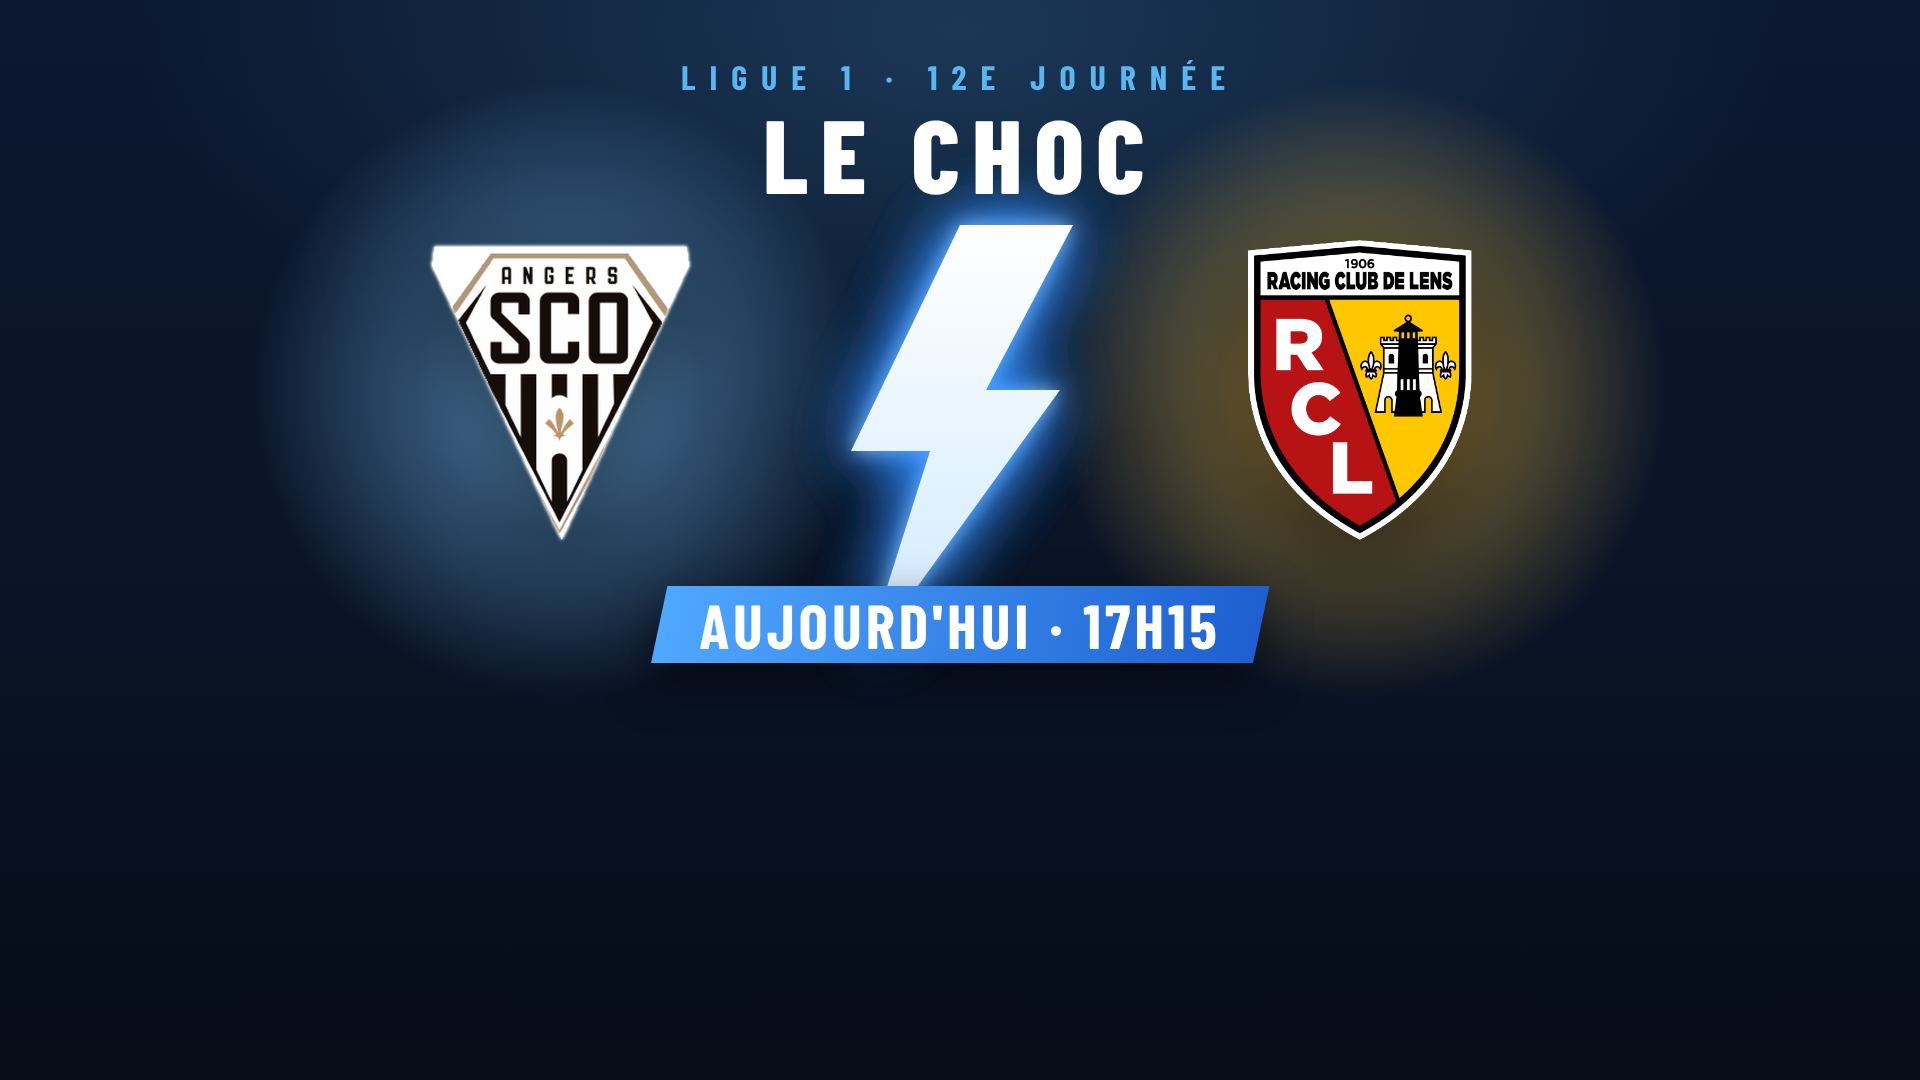
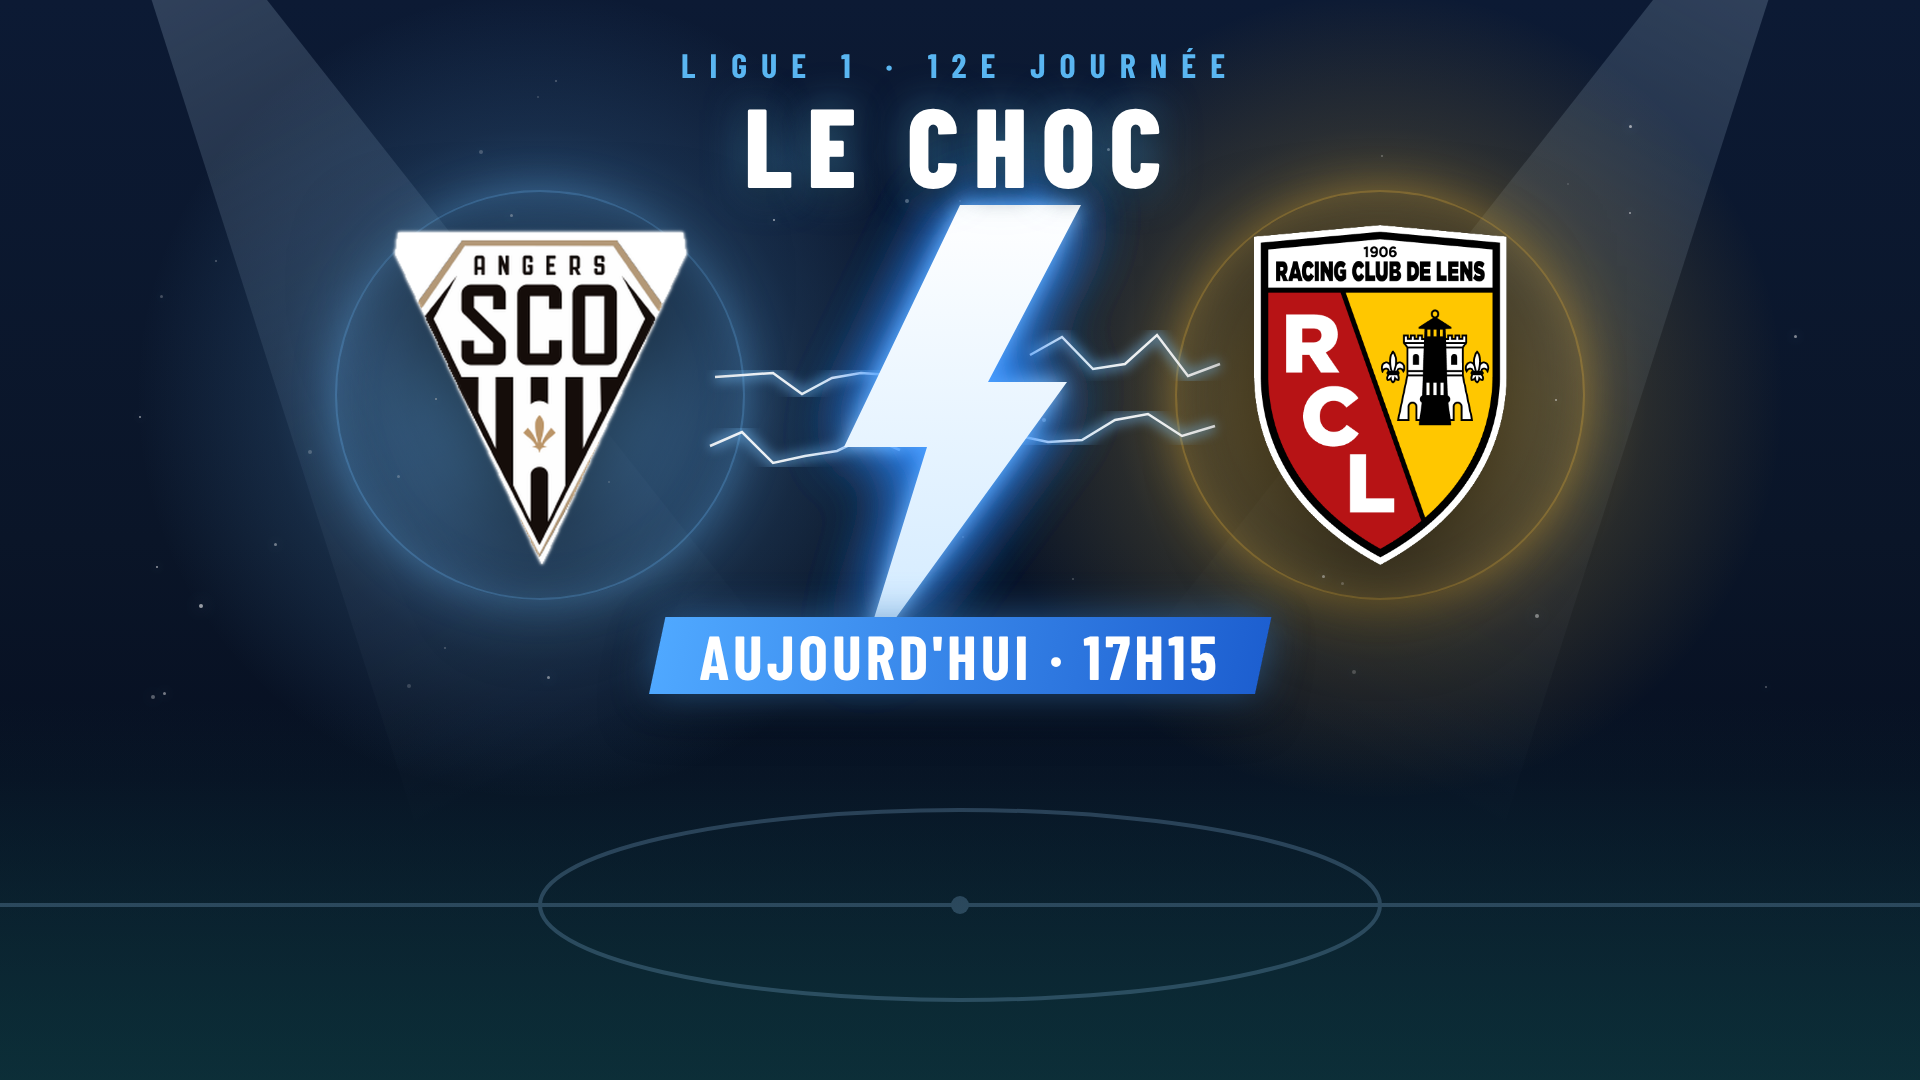
Couverture SCO-Lens éclair v2 : projecteurs, terrain, arcs électriques
Claude-Session: https://claude.ai/code/session_01ShcrTswhZu9rDc4mz55fwo

diff --git a/outils/choc.py b/outils/choc.py
@@ -241,31 +241,58 @@ def eclair(cx, y0, y1):
 
 
 def page_nuit(f):
-    """Couverture sobre : bleu nuit uni, halo derrière chaque logo, VS typographique sans cadre, horaire en étiquette bleue.
-    Tout le contenu au-dessus de 650 px (le titre du site recouvre le bas)."""
+    """Couverture bleu nuit : projecteurs, terrain en perspective, halos derrière les logos, grand éclair (option « eclair »)
+    avec arcs électriques vers les deux logos. Contenu utile au-dessus de 650 px (le titre du site recouvre le bas)."""
+    import random
+    random.seed(11)
     W, H = 1920, 1080
-    L = 300; cy = 390; cx = W // 2; dx = 400
-    def halo(x, couleur):
-        return (f'<div style="position:absolute;left:{x-340}px;top:{cy-340}px;width:680px;height:680px;border-radius:50%;'
-                f'background:radial-gradient(circle,{couleur} 0%,{couleur.replace("0.9","0.35")} 30%,rgba(0,0,0,0) 64%)"></div>')
+    L = 340; cy = 395; cx = W // 2; dx = 420
+    def halo(x, c):
+        return (f'<div style="position:absolute;left:{x-420}px;top:{cy-420}px;width:840px;height:840px;border-radius:50%;'
+                f'background:radial-gradient(circle,rgba({c},0.75) 0%,rgba({c},0.38) 22%,rgba({c},0.12) 45%,rgba({c},0) 68%)"></div>'
+                f'<div style="position:absolute;left:{x-205}px;top:{cy-205}px;width:410px;height:410px;border-radius:50%;border:2px solid rgba({c},0.35);box-shadow:0 0 40px rgba({c},0.35),inset 0 0 40px rgba({c},0.25)"></div>')
     def logo(nom, x):
         net = 'drop-shadow(0 0 1.5px #FFF) drop-shadow(0 0 1.5px #FFF) ' if nom == 'angers-sco' else ''
         return f'<img src="file://{ICI}/logos/{nom}.png" style="position:absolute;left:{x-L//2}px;top:{cy-L//2}px;width:{L}px;height:{L}px;object-fit:contain;filter:{net}drop-shadow(0 30px 50px rgba(0,0,0,0.65))">'
+    def arc(x0, x1, y):
+        pts = [(x0, y)]; n = 6
+        for i in range(1, n):
+            pts.append((x0 + (x1 - x0) * i / n, y + random.uniform(-22, 22)))
+        pts.append((x1, y + random.uniform(-10, 10)))
+        q = ' '.join(f'{a:.0f},{b:.0f}' for a, b in pts)
+        return (f'<polyline points="{q}" fill="none" stroke="#7CC4FF" stroke-width="10" opacity="0.5" filter="url(#ga)"/>'
+                f'<polyline points="{q}" fill="none" stroke="#FFFFFF" stroke-width="2.5" opacity="0.9"/>')
+    arcs = ''
+    if f.get('eclair'):
+        arcs = ('<svg width="1920" height="1080" style="position:absolute;left:0;top:0"><defs><filter id="ga"><feGaussianBlur stdDeviation="6"/></filter></defs>'
+                + arc(cx - 70, cx - dx + 175, cy - 20) + arc(cx - 60, cx - dx + 170, cy + 55)
+                + arc(cx + 70, cx + dx - 160, cy - 40) + arc(cx + 55, cx + dx - 165, cy + 40) + '</svg>')
+    poussiere = ''.join(f'<div style="position:absolute;left:{random.randint(120,1800)}px;top:{random.randint(80,700)}px;width:{r}px;height:{r}px;border-radius:50%;background:#FFFFFF;opacity:{random.uniform(0.15,0.6):.2f};box-shadow:0 0 {r*4}px #9FD3FF"></div>' for r in [random.choice([2, 2, 3, 4]) for _ in range(45)])
+    faisceau = lambda x, rot: (f'<div style="position:absolute;left:{x}px;top:-120px;width:520px;height:1300px;transform-origin:50% 0;transform:rotate({rot}deg);'
+                               f'background:linear-gradient(180deg,rgba(200,230,255,0.22) 0%,rgba(200,230,255,0.06) 45%,rgba(200,230,255,0) 75%);clip-path:polygon(45% 0,55% 0,100% 100%,0 100%);filter:blur(6px)"></div>')
+    terrain = ('<svg width="1920" height="1080" style="position:absolute;left:0;top:0;opacity:0.22">'
+               '<ellipse cx="960" cy="905" rx="420" ry="95" fill="none" stroke="#9FD3FF" stroke-width="4"/>'
+               '<line x1="0" y1="905" x2="1920" y2="905" stroke="#9FD3FF" stroke-width="4"/>'
+               '<circle cx="960" cy="905" r="9" fill="#9FD3FF"/></svg>')
     return f'''<html><head><meta charset="utf-8"><style>{polices()}*{{margin:0;padding:0;box-sizing:border-box}}</style></head>
 <body style="width:{W}px;height:{H}px;overflow:hidden">
-<div style="position:relative;width:{W}px;height:{H}px;overflow:hidden;color:#FFFFFF;font-family:Barlow;background:linear-gradient(180deg,#0B1830 0%,#0A1426 55%,#060C18 100%)">
-  <div style="position:absolute;left:{cx-900}px;top:-420px;width:1800px;height:900px;border-radius:50%;background:radial-gradient(ellipse,rgba(90,182,241,0.20) 0%,rgba(90,182,241,0) 65%)"></div>
-  {halo(cx-dx, 'rgba(120,195,255,0.9)')}
-  {halo(cx+dx, 'rgba(255,200,70,0.9)')}
-  {eclair(cx, 225, 660) if f.get('eclair') else ''}
+<div style="position:relative;width:{W}px;height:{H}px;overflow:hidden;color:#FFFFFF;font-family:Barlow;background:linear-gradient(180deg,#0C1A34 0%,#0A1528 50%,#071022 72%,#0A1E2E 100%)">
+  {faisceau(-120, -28)}{faisceau(1520, 28)}
+  <div style="position:absolute;left:0;right:0;top:700px;height:380px;background:linear-gradient(180deg,rgba(10,40,50,0) 0%,rgba(14,60,64,0.55) 100%)"></div>
+  {terrain}
+  {halo(cx-dx, '110,190,255')}
+  {halo(cx+dx, '255,196,60')}
+  {poussiere}
+  {arcs}
+  {eclair(cx, 205, 670) if f.get('eclair') else ''}
   {logo(f['dom']['logo'], cx-dx)}
   {logo(f['ext']['logo'], cx+dx)}
-  <div style="display:{'none' if f.get('eclair') else 'block'};position:absolute;left:0;right:0;top:{cy-80}px;text-align:center;font-family:'Barlow Condensed';font-weight:800;font-style:italic;font-size:150px;line-height:1;letter-spacing:2px;background:linear-gradient(180deg,#FFFFFF 0%,#9FD3FF 100%);-webkit-background-clip:text;color:transparent;filter:drop-shadow(0 10px 30px rgba(0,0,0,0.6))">VS</div>
-  <div style="position:absolute;left:0;right:0;top:56px;text-align:center">
+  <div style="display:{'none' if f.get('eclair') else 'block'};position:absolute;left:0;right:0;top:{cy-80}px;text-align:center;font-family:'Barlow Condensed';font-weight:800;font-style:italic;font-size:150px;line-height:1;background:linear-gradient(180deg,#FFFFFF 0%,#9FD3FF 100%);-webkit-background-clip:text;color:transparent">VS</div>
+  <div style="position:absolute;left:0;right:0;top:44px;text-align:center">
     <div style="font-family:'Barlow Condensed';font-weight:700;font-size:34px;letter-spacing:14px;color:#5AB6F1">{e(f.get('competition','LIGUE 1'))} · {e(f['journee'].upper())}</div>
-    <div style="margin-top:4px;font-family:'Barlow Condensed';font-weight:800;font-size:104px;line-height:1;letter-spacing:12px">LE CHOC</div>
+    <div style="margin-top:2px;font-family:'Barlow Condensed';font-weight:800;font-size:112px;line-height:1;letter-spacing:14px;text-shadow:0 0 40px rgba(90,182,241,0.55),0 6px 24px rgba(0,0,0,0.6)">LE CHOC</div>
   </div>
-  <div style="position:absolute;left:50%;top:{cy+L//2+46}px;transform:translateX(-50%) skewX(-12deg);background:linear-gradient(90deg,#4FA8FF 0%,#1D5FD0 100%);padding:6px 40px;white-space:nowrap;box-shadow:0 18px 44px rgba(0,0,0,0.5)">
+  <div style="position:absolute;left:50%;top:{cy+L//2+52}px;transform:translateX(-50%) skewX(-12deg);background:linear-gradient(90deg,#4FA8FF 0%,#1D5FD0 100%);padding:6px 42px;white-space:nowrap;box-shadow:0 0 40px rgba(79,168,255,0.45),0 18px 44px rgba(0,0,0,0.5)">
     <div style="transform:skewX(12deg);font-family:'Barlow Condensed';font-weight:700;font-size:62px;line-height:1.05;letter-spacing:4px;color:#FFFFFF">{e(f.get('quand','AUJOURD\'HUI · 17H15'))}</div></div>
 </div></body></html>'''
 
